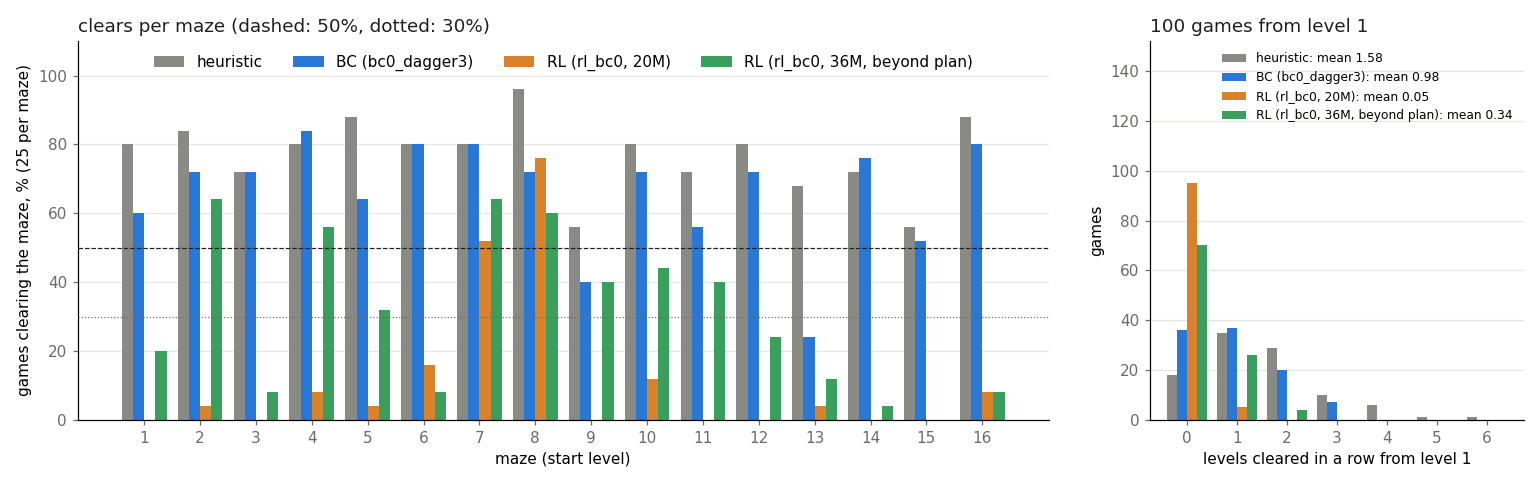
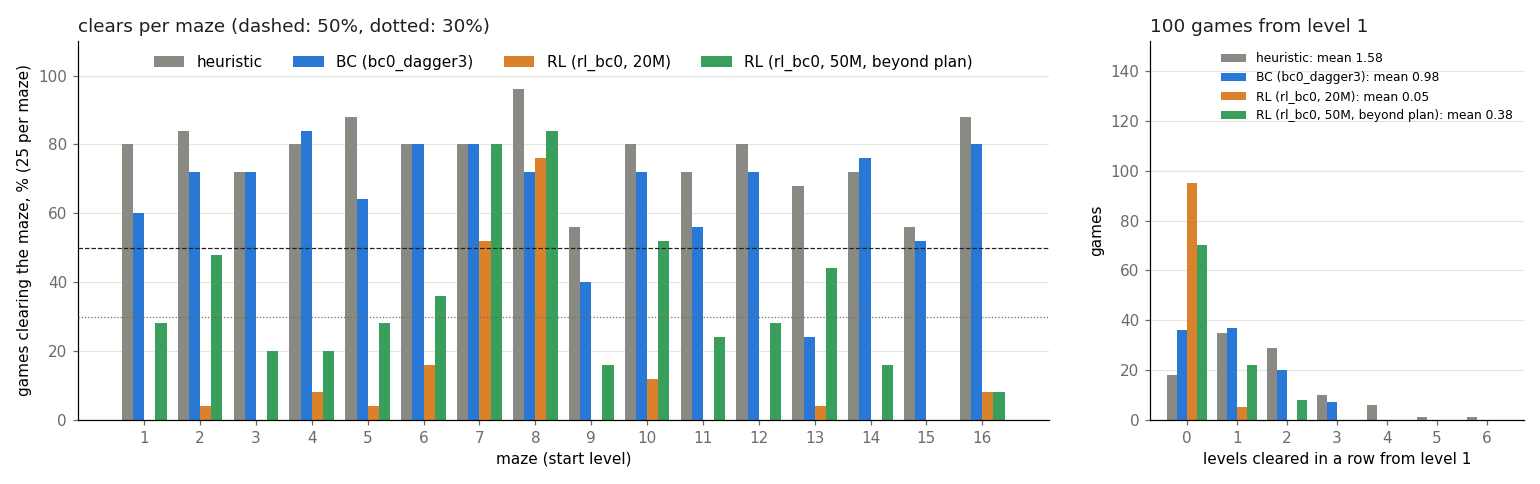
results: rl_bc0 50M (second continuation) on the final protocol; final plot

diff --git a/docs/results.md b/docs/results.md
@@ -426,6 +426,7 @@ Final evaluation of each run's chosen checkpoint: 100 games, seeds 0..99, eps 0,
 | bc0_dagger3 | bc_best.pt (DAgger 3, epoch 2) | v0.3 on 16 mazes: behaviour cloning of the heuristic (3M steps, eps-0.1 play) + 3 DAgger iterations; not RL | 291.3 | 64% | 309.3 | 7910 | 33170 | 3% (30000 ticks) | 929 | - |
 | rl_bc0 | ck_20000000.pt (20.0M) | v0.3 on 16 mazes: DQN from bc0_dagger3's convs (frozen 500k), 300k BC steps in the buffer, eps 0.1 -> 0.02, PER, endgame dot reward, prefixes of all 16 mazes, death -20 | 159.4 | 5% | 102.2 | 1635 | 7085 | 0% (30000 ticks) | 26 | - |
 | rl_bc0 (cont.) | best.pt (36.0M of 40M) | rl_bc0 continued past the plan's 20M (--resume --extend-steps, buffer refilled) | 210.4 | 30% | 158.4 | 1775 | 10745 | 1% (30000 ticks) | 341 | - |
+| rl_bc0 (cont. 2) | best.pt (50.0M of 60M) | the second continuation (still running at the end of the session) | 220.4 | 30% | 179.9 | 1770 | 11080 | 0% (30000 ticks) | 40 | - |
 
 dqn1 over 3 seeds (mean +- std): food 140.6 +- 28.5, reward 23.4 +- 37.4, score 1668.3 +- 157.4, level 1 cleared 0%
 
@@ -731,28 +732,32 @@ the training evals breaks the tie, 0.081 vs 0.034):
 | BC (bc0_dagger3) | 60% | 72% | 72% | 84% | 64% | 80% | 80% | 72% | 40% | 72% | 56% | 72% | 24% | 76% | 52% | 80% | 24% | 0.98 / 1 / 3 |
 | RL (rl_bc0, 20M) | 0% | 4% | 0% | 8% | 4% | 16% | 52% | 76% | 0% | 12% | 0% | 0% | 4% | 0% | 0% | 8% | 0% | 0.05 / 0 / 1 |
 | RL (rl_bc0, 36M, beyond the plan) | 20% | 64% | 8% | 56% | 32% | 8% | 64% | 60% | 40% | 44% | 40% | 24% | 12% | 4% | 0% | 8% | 0% | 0.34 / 0 / 2 |
+| RL (rl_bc0, 50M, beyond the plan) | 28% | 48% | 20% | 20% | 28% | 36% | 80% | 84% | 16% | 52% | 24% | 28% | 44% | 16% | 0% | 8% | 0% | 0.38 / 0 / 2 |
 
 Games from level 1 (100, seeds 0..99): heuristic 383 food, level 1 cleared
 82%; BC 291 food, 64%, 3% cut at 30000 ticks (bc0: 282, 68%); RL 20M 159
 food, 5%, 3 lives lost in ~550 ticks on average; RL 36M 210 food, 30%, 1%
-cut. Mean of the 16 per-maze shares: heuristic 77%, BC 66%, RL 20M 12%,
-RL 36M 30%.
+cut; RL 50M 220 food, 30%, none cut. Mean of the 16 per-maze shares:
+heuristic 77%, BC 66%, RL 20M 12%, RL 36M 30%, RL 50M 33%.
 
 Beyond the plan, rl_bc0 was continued with `--resume --extend-steps`
 (same config; the buffer, not checkpointed, refilled from the current
 policy) while the GPU would otherwise have idled: training evals rose from a
 mean per-maze share of 0.08 (20M) to 0.28-0.38 (32-40M), levels from level 1
-0.25-0.35; mazes 14 and 15 stayed at 0% in every eval. The selection rule
-picks 36M (0.35 levels). A second extension to 60M was still running at the
-end of the session.
+0.25-0.35; mazes 14 and 15 stayed at 0% in every eval to 40M. The
+selection rule picked 36M (0.35 levels); a second extension (to 60M, still
+running at the end of the session) gave 50M (0.35 levels and, for the first
+time, no maze at 0% in the training eval: maze 15 5%), which on the final
+protocol is again 0% on maze 15.
 
 **Verdict: PARTIAL, by BC only.** No agent reaches 50% on every maze. bc0
 and bc0_dagger1 (eps 0) clear >= 30% of every maze (minimum 36% and 40%),
 which is the PARTIAL bar; the version the selection rule passed on
 (bc0_dagger3) does not (24% on maze 13), and the four versions were all
 scored on the same test seeds, so "BC is PARTIAL" rests on the best of four
-noisy minima. RL is FAILURE (20M: 0% on 8 mazes; 36M: 0% on maze 15, 4-12% on
-mazes 3, 6, 13, 14, 16) and did not overtake its teacher (BC) or the
-heuristic on any maze beyond noise (20M maze 8: RL 76%, BC 72%, heuristic
-96%; 36M maze 9: RL 40% = BC 40%). No tag,
-no release, no README section.
+noisy minima. RL is FAILURE (20M: 0% on 8 mazes; 36M: 0% on maze 15,
+4-12% on mazes 3, 6, 13, 14, 16; 50M: 0% on maze 15, 8-20% on mazes 3, 4,
+9, 14, 16). RL did not overtake its teacher: no maze beats the heuristic,
+and against BC the 50M agent is ahead only on maze 13 (44% vs 24%; the
+other BC versions had 40-60% there) and maze 8 (84% vs 72%, 3 games of 25),
+below it on 13 of 16 mazes. No tag, no release, no README section.

diff --git a/docs/overnight.md b/docs/overnight.md
@@ -1034,3 +1034,13 @@ RL), PARTIAL >= 30%.
   (the test compares the global set of such dirs). Run alone 3 times: 2
   passed, 1 failed the same way, both with training running -> a race with
   the concurrent run, not a regression (the session touched no env code).
+- 06:52 Second extension evals 42-50M: levels 0.20 / 0.05 / 0.25 / 0.30 /
+  0.35, mean per-maze share 0.21-0.34; at 50M the first eval with no maze at
+  0% (maze 15 5%) -> new best.pt by the rule (0.35 levels as 36M, min 5% >
+  0%), kept as `runs/rl_bc0/best_ext_50M.pt`.
+- 06:56 rl_bc0 @ 50M on the final protocol: per maze
+  28/48/20/20/28/36/80/84/16/52/24/28/44/16/0/8% (min 0%, maze 15; mean
+  33%), from level 1 0.38 levels (median 0, max 2), food 220, level 1 30%.
+  FAILURE. RL vs BC: ahead on mazes 13 (44 vs 24%) and 8 (84 vs 72%), behind
+  on 13 mazes; never ahead of the heuristic. Final plot and results.md use
+  heuristic / BC / RL 20M (plan) / RL 50M (best, beyond the plan).
